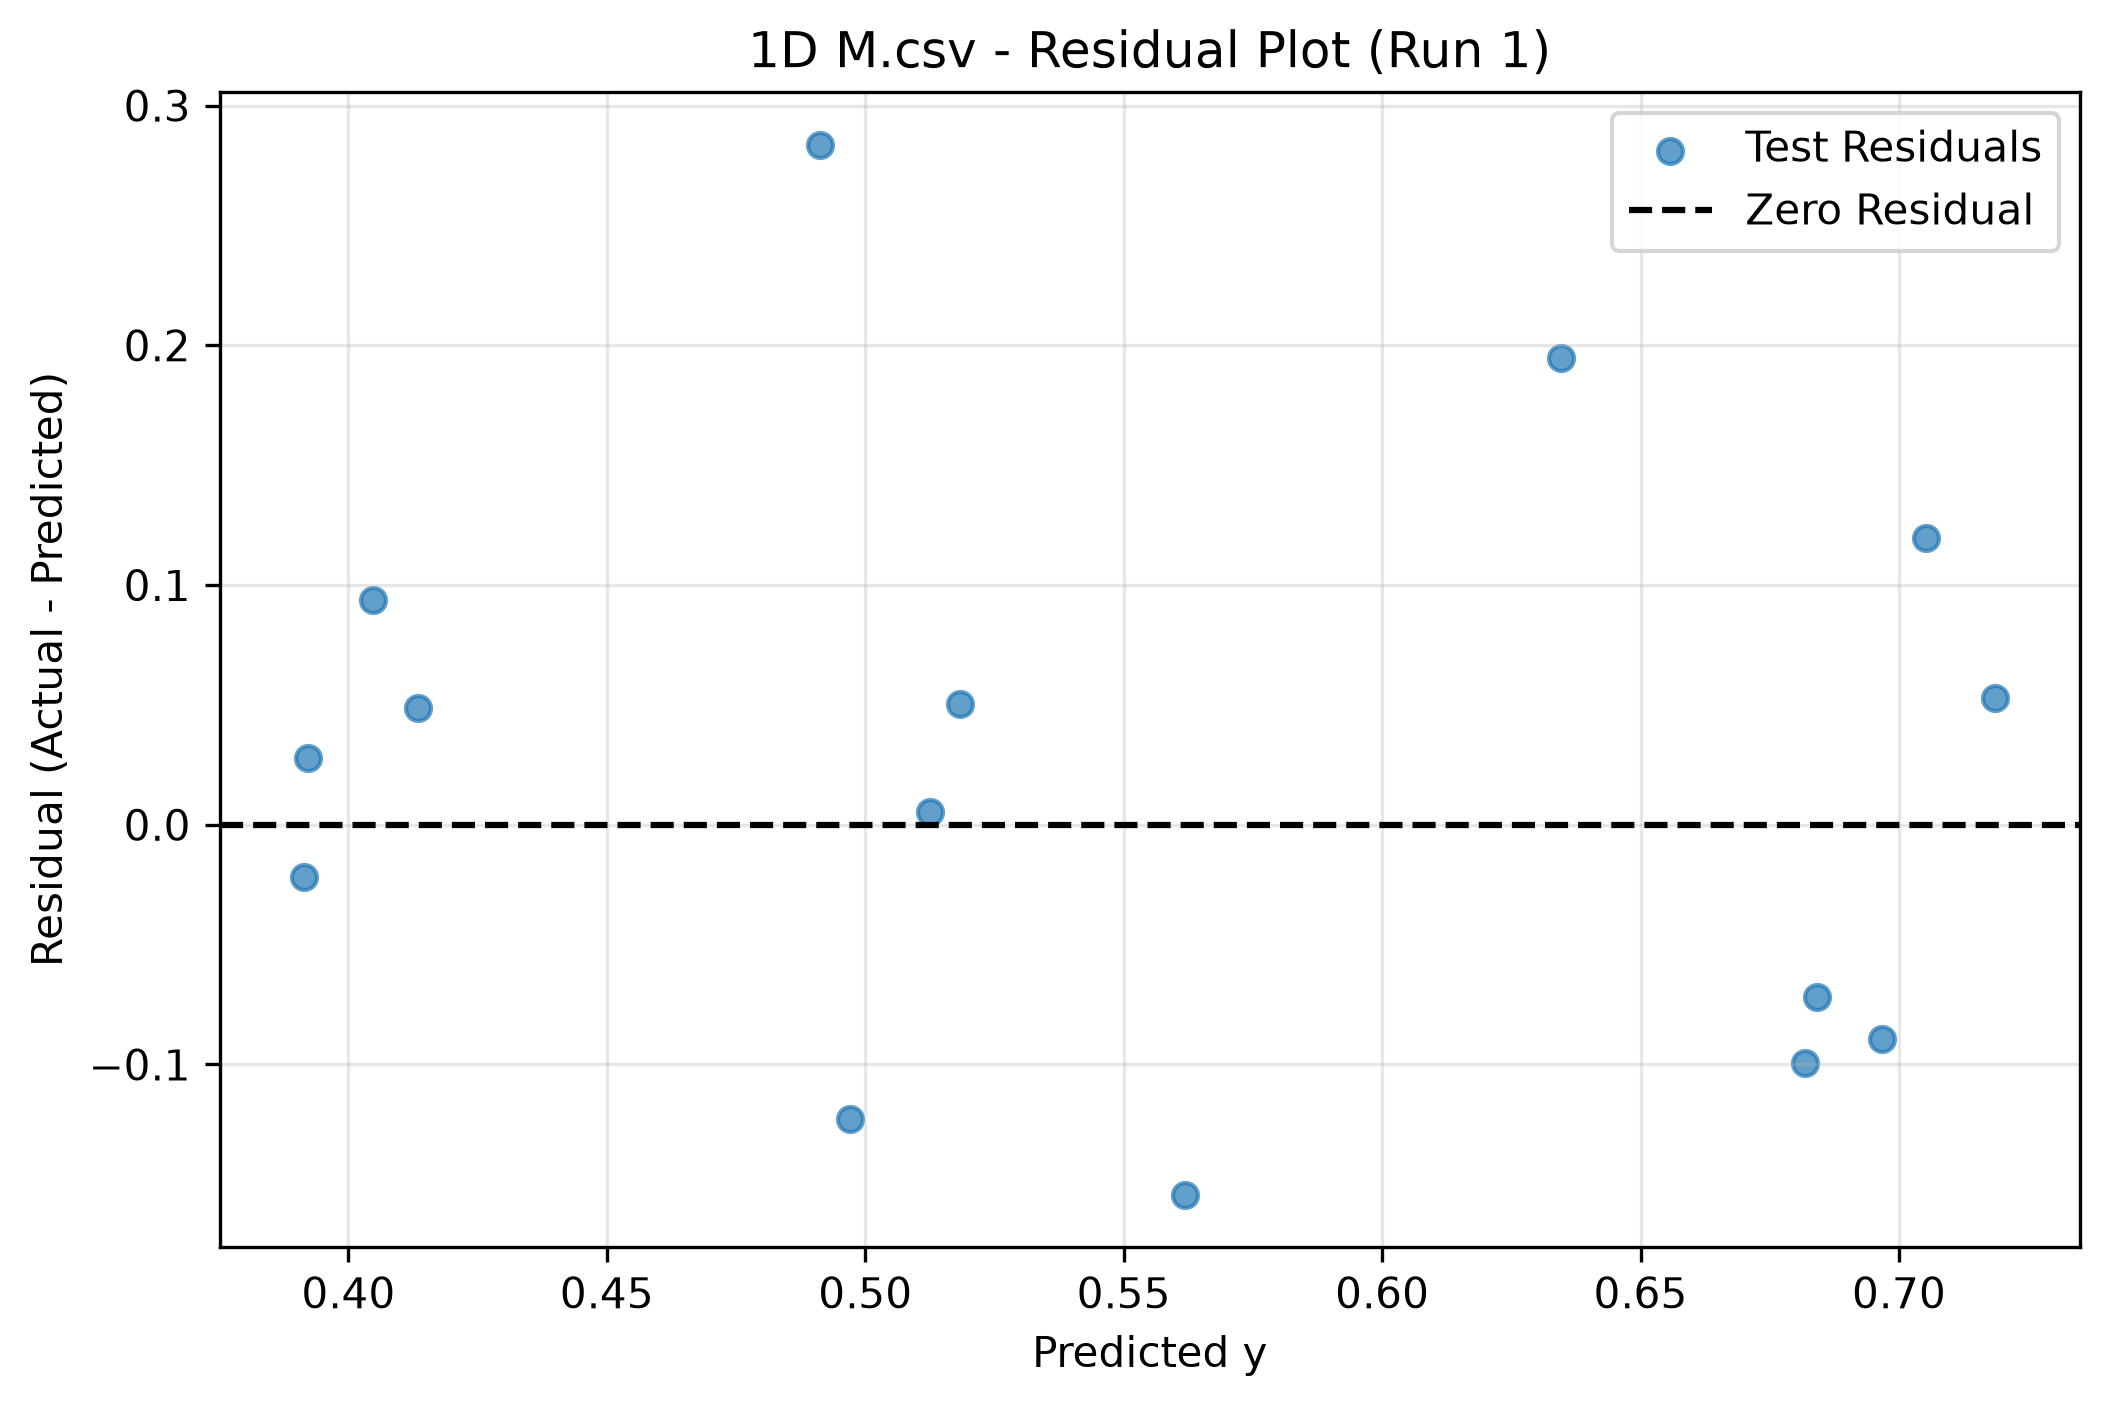
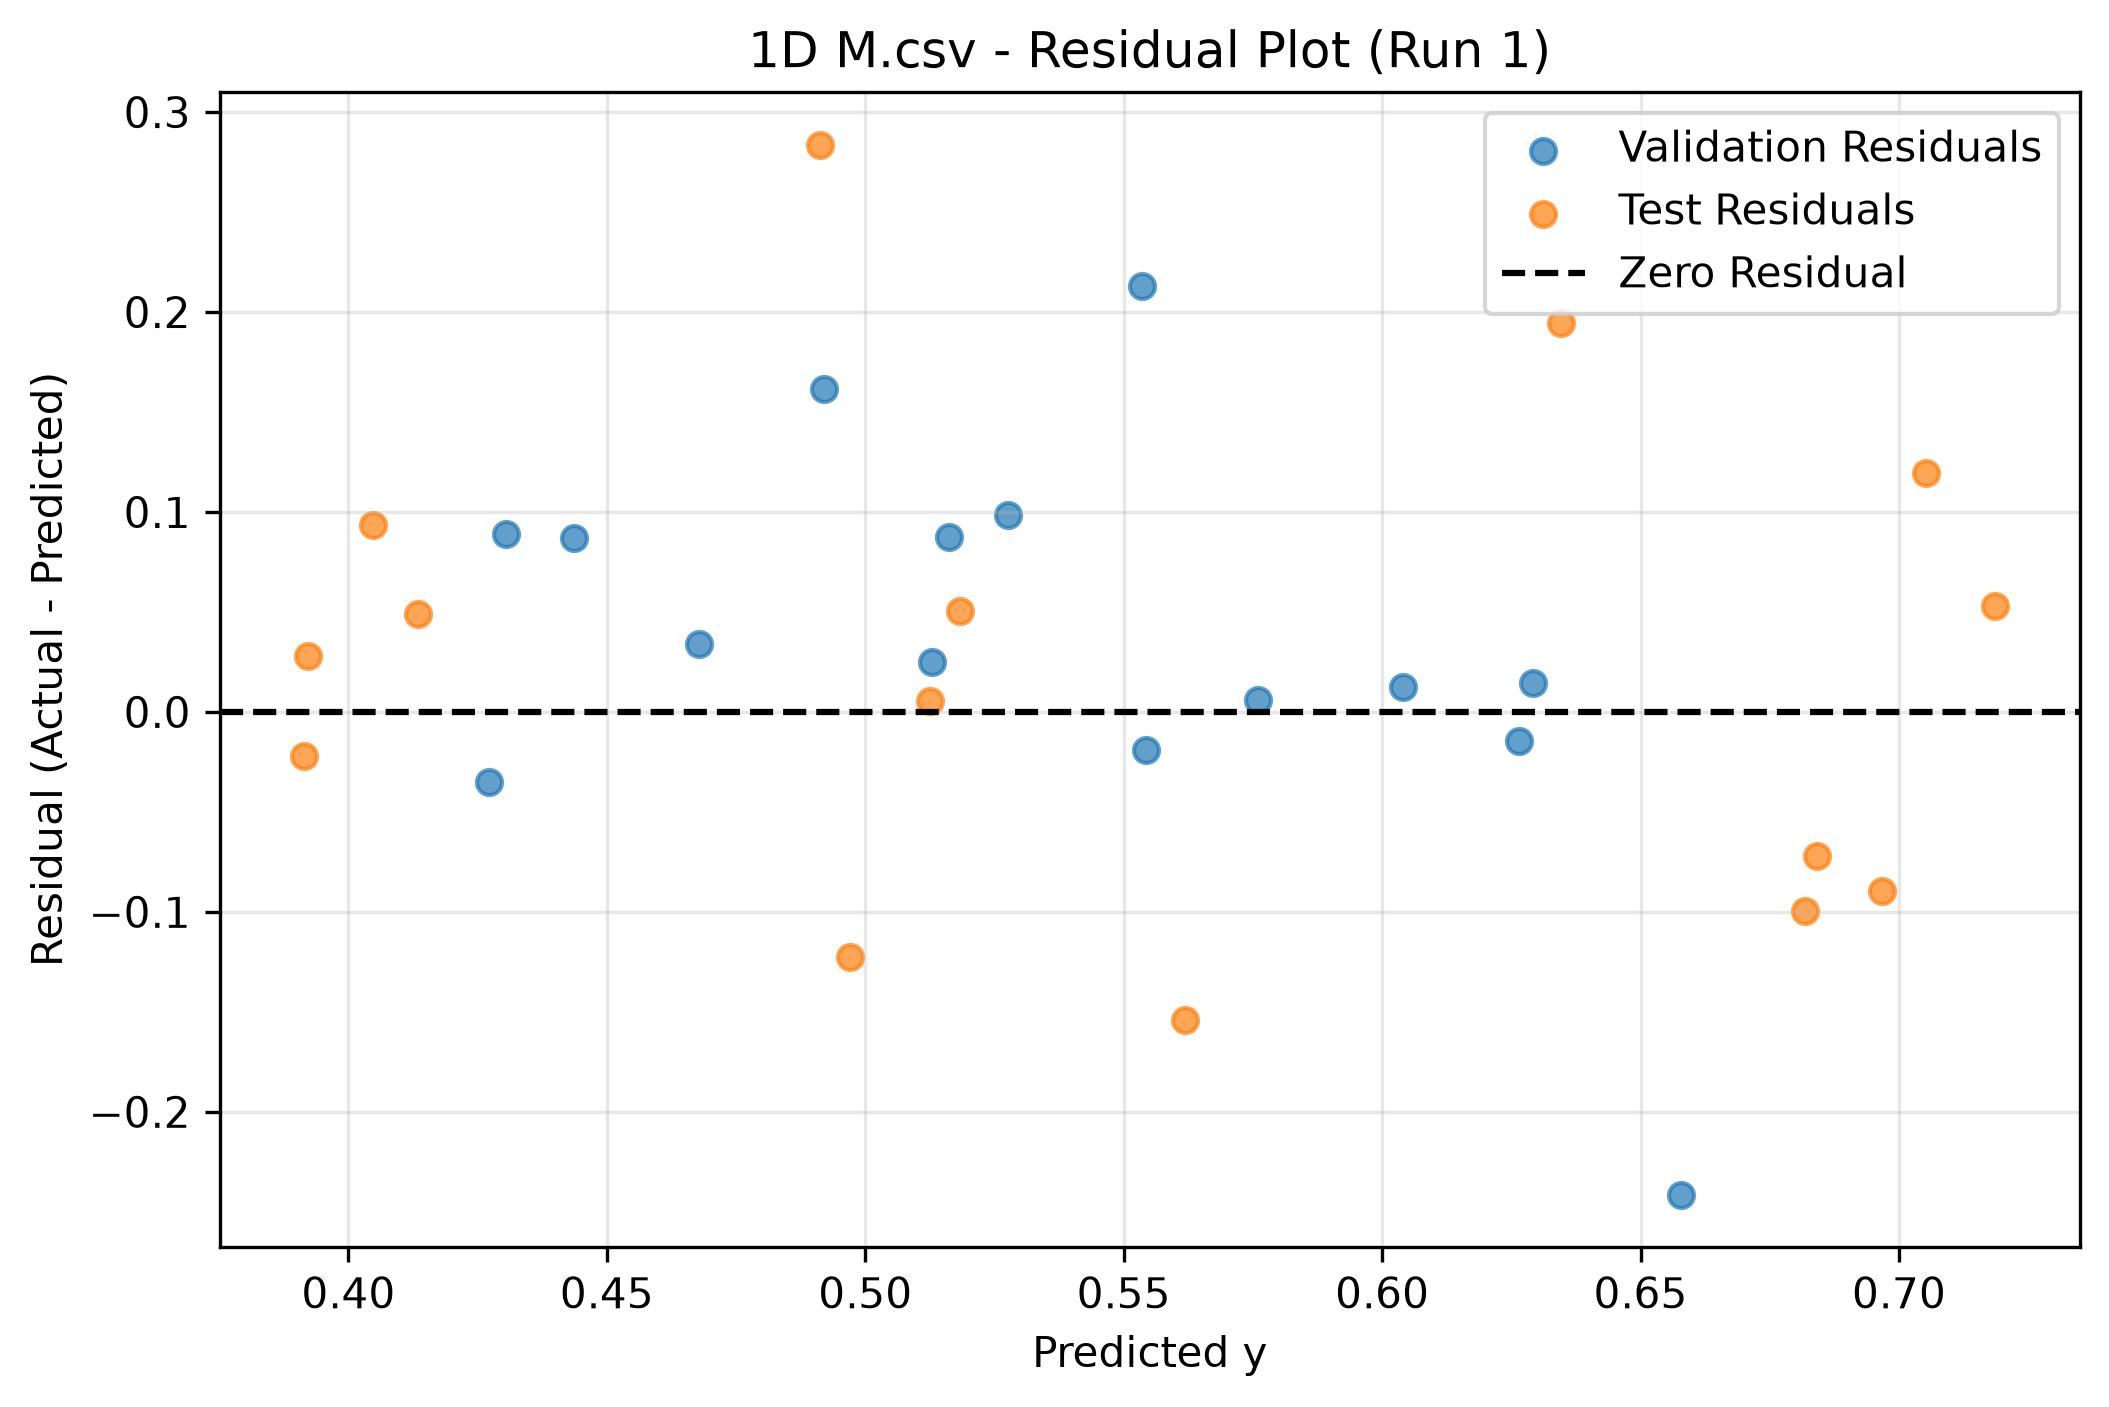
shone please bro

diff --git a/Project2/visuals.py b/Project2/visuals.py
@@ -264,17 +264,20 @@ def predicted_vs_actual(runs, filename):
     run = runs[0]
     model = run["model"]
 
-    # predict using only the held-out test data
-    y_actual = run["y_test"]
-    y_pred = model.predict(run["X_test"])
+    # get actual and predicted values for validation and test
+    y_val = run["y_val"]
+    y_test = run["y_test"]
+    pred_val = model.predict(run["X_val"])
+    pred_test = model.predict(run["X_test"])
 
     # find the range for the perfect prediction line
-    low = min(y_actual.min(), y_pred.min())
-    high = max(y_actual.max(), y_pred.max())
+    low = min(y_val.min(), y_test.min(), pred_val.min(), pred_test.min())
+    high = max(y_val.max(), y_test.max(), pred_val.max(), pred_test.max())
 
-    # plot actual values against predicted values
+    # plot validation and test predictions separately
     fig, ax = plt.subplots(figsize=(7, 6))
-    ax.scatter(y_actual, y_pred, alpha=0.7, label="Test Predictions")
+    ax.scatter(y_val, pred_val, alpha=0.7, label="Validation Predictions")
+    ax.scatter(y_test, pred_test, alpha=0.7, label="Test Predictions")
 
     # draw the perfect prediction reference line
     ax.plot([low, high], [low, high], "k--", label="Perfect Prediction")
@@ -306,16 +309,18 @@ def residual_plot(runs, filename):
     run = runs[0]
     model = run["model"]
 
-    # predict using only the held-out test data
-    y_actual = run["y_test"]
-    y_pred = model.predict(run["X_test"])
+    # predict using validation and test data separately
+    pred_val = model.predict(run["X_val"])
+    pred_test = model.predict(run["X_test"])
 
     # calculate residuals as actual minus predicted
-    residuals = y_actual - y_pred
+    residuals_val = run["y_val"] - pred_val
+    residuals_test = run["y_test"] - pred_test
 
-    # plot the residuals against predicted values
+    # plot validation and test residuals separately
     fig, ax = plt.subplots(figsize=(8, 5))
-    ax.scatter(y_pred, residuals, alpha=0.7, label="Test Residuals")
+    ax.scatter(pred_val, residuals_val, alpha=0.7, label="Validation Residuals")
+    ax.scatter(pred_test, residuals_test, alpha=0.7, label="Test Residuals")
 
     # draw the zero residual reference line
     ax.axhline(0, color="black", linestyle="--", label="Zero Residual")
@@ -391,9 +396,6 @@ if __name__ == "__main__":
         predicted_vs_actual(runs, filename)
 
 
-    print("\n---------- all plots saved to plots/ ----------")
-
-
     print("---------- Creating comparison bar charts ----------")
     comparison_bar_charts(models)
 
@@ -408,3 +410,5 @@ if __name__ == "__main__":
     # print the fitted regression equation for all 9 datasets
     for filename, runs in models.items():
         print_regression_equation(runs, filename)
+
+    print("\n---------- all plots saved to plots/ ----------")
